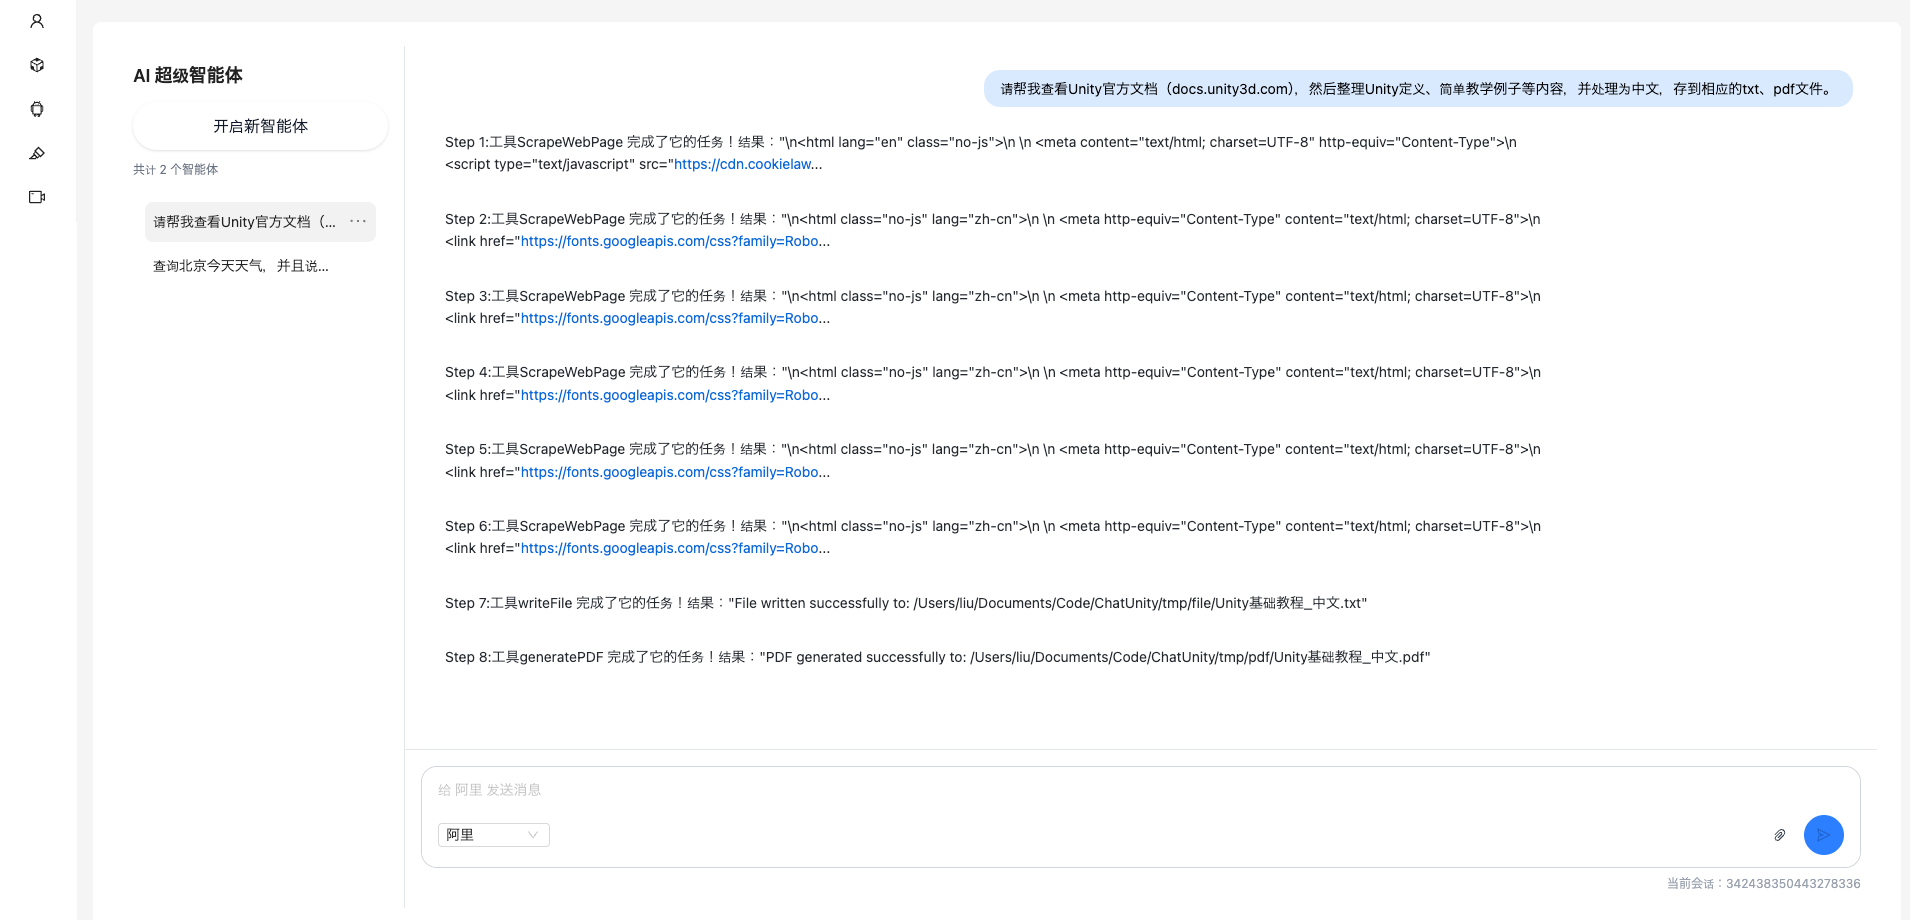
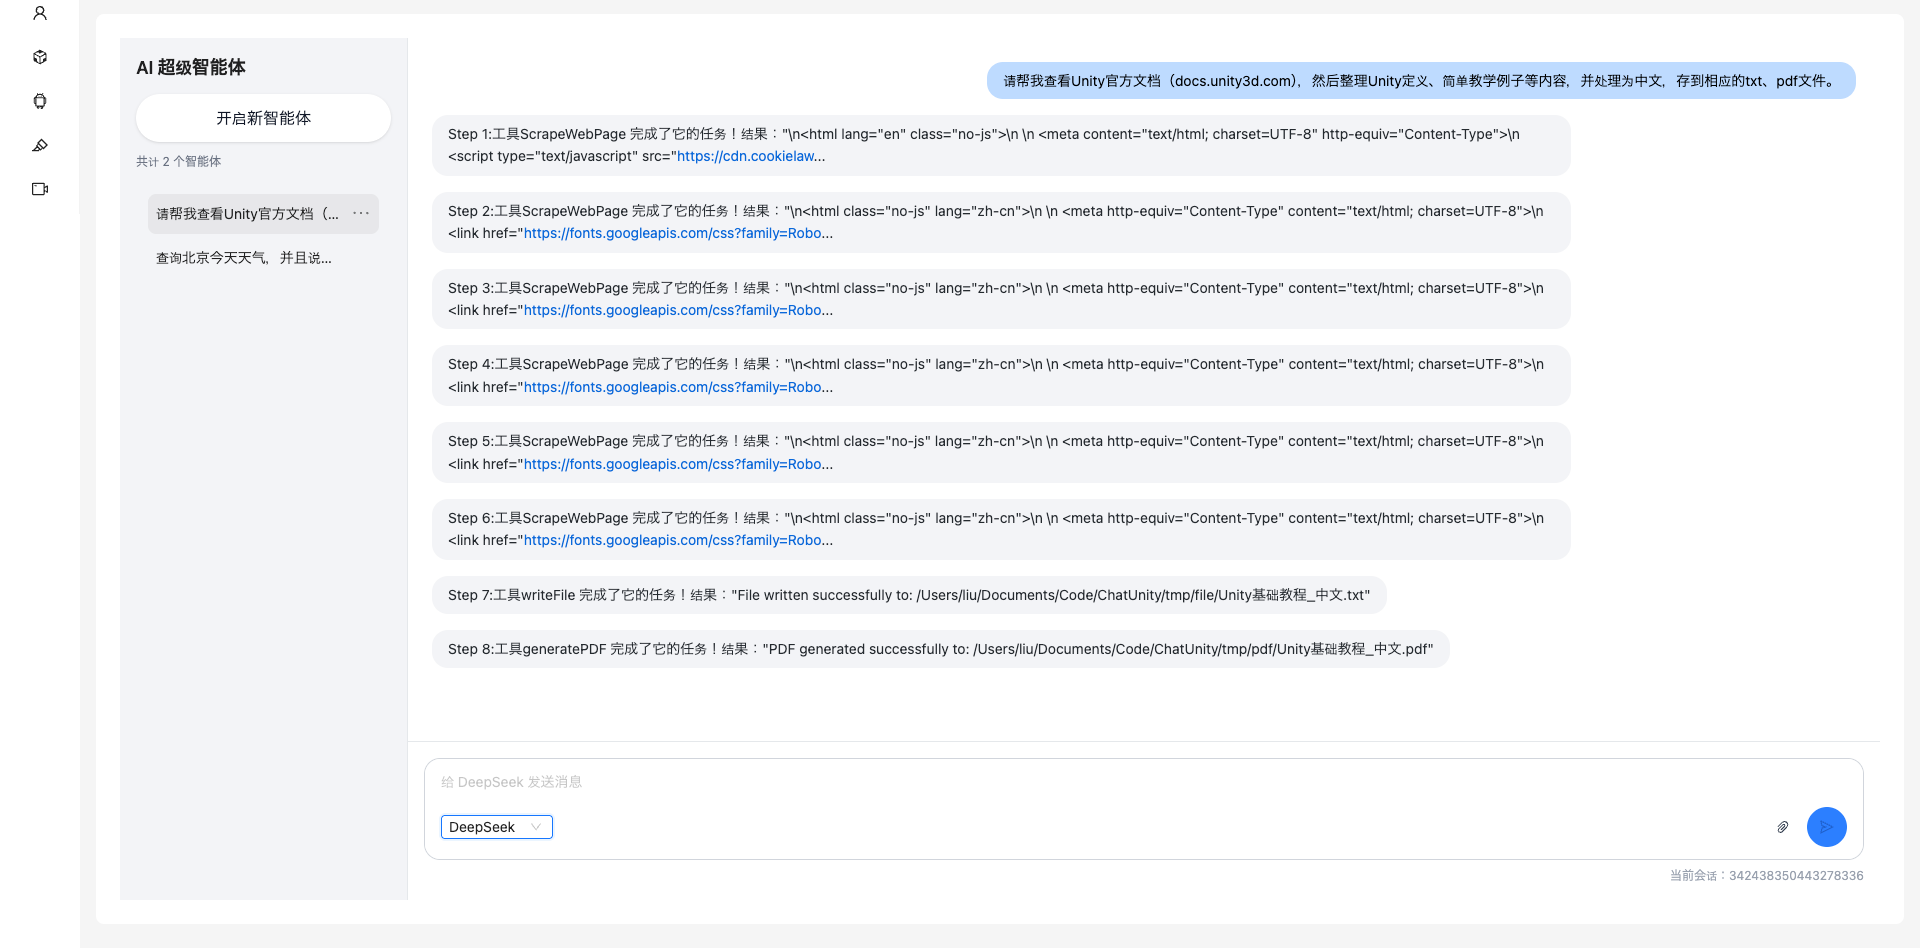
修改前端展示

diff --git a/frontend/src/ui-backend/pages/Agent/agent.tsx b/frontend/src/ui-backend/pages/Agent/agent.tsx
@@ -669,7 +669,7 @@ export const AgentHelper = () => {
   return (
     <div className="flex h-[calc(100vh-96px)] min-h-0 bg-white">
       {/* 左侧会话与操作栏（保留会话，可删除） */}
-      <div className="w-72 border-r border-gray-200 p-4 flex flex-col gap-3 min-h-0">
+      <div className="w-72 border-r border-gray-200 p-4 flex flex-col gap-3 min-h-0 bg-gray-100">
         <div className="text-lg font-semibold flex-shrink-0">AI 超级智能体</div>
         <Button
           size="large"
@@ -687,6 +687,7 @@ export const AgentHelper = () => {
               loader={<div>Loading...</div>}
               scrollableTarget="scrollableDiv">
               <Conversations
+                className="!bg-gray-100"
                 activeKey={activeChatId}
                 onActiveChange={handleActiveChange}
                 menu={menuConfig}
@@ -723,7 +724,7 @@ export const AgentHelper = () => {
                     <div
                       className={
                         'inline-block max-w-[80%] rounded-2xl px-4 py-2 ' +
-                        (m.role === 'user' ? 'bg-blue-100 text-black' : 'bg-white text-black')
+                        (m.role === 'user' ? 'bg-blue-200 text-black' : 'bg-gray-100 text-black')
                       }>
                       {m.role === 'assistant' && m.content ? (
                         <div

diff --git a/frontend/src/ui-backend/pages/UnityHelper/unity.tsx b/frontend/src/ui-backend/pages/UnityHelper/unity.tsx
@@ -692,7 +692,7 @@ export const Unity = () => {
   return (
     <div className="flex h-[calc(100vh-96px)] min-h-0 bg-white">
       {/* 左侧会话与操作栏（保留会话，可删除） */}
-      <div className="w-72 border-r border-gray-200 p-4 flex flex-col gap-3 min-h-0 ">
+      <div className="w-72 border-r border-gray-200 p-4 flex flex-col gap-3 min-h-0 bg-gray-100">
         <div className="text-lg font-semibold flex-shrink-0">Unity 助手</div>
         <Button
           size="large"
@@ -710,6 +710,7 @@ export const Unity = () => {
               loader={<div>Loading...</div>}
               scrollableTarget="scrollableDiv">
               <Conversations
+                className="!bg-gray-100"
                 activeKey={activeChatId}
                 onActiveChange={handleActiveChange}
                 menu={menuConfig}
@@ -746,7 +747,7 @@ export const Unity = () => {
                     <div
                       className={
                         'inline-block max-w-[80%] rounded-2xl px-4 py-2 ' +
-                        (m.role === 'user' ? 'bg-blue-100 text-black' : 'bg-white text-black')
+                        (m.role === 'user' ? 'bg-blue-200 text-black' : 'bg-gray-100 text-black')
                       }>
                       {m.role === 'assistant' && m.content ? (
                         <div
